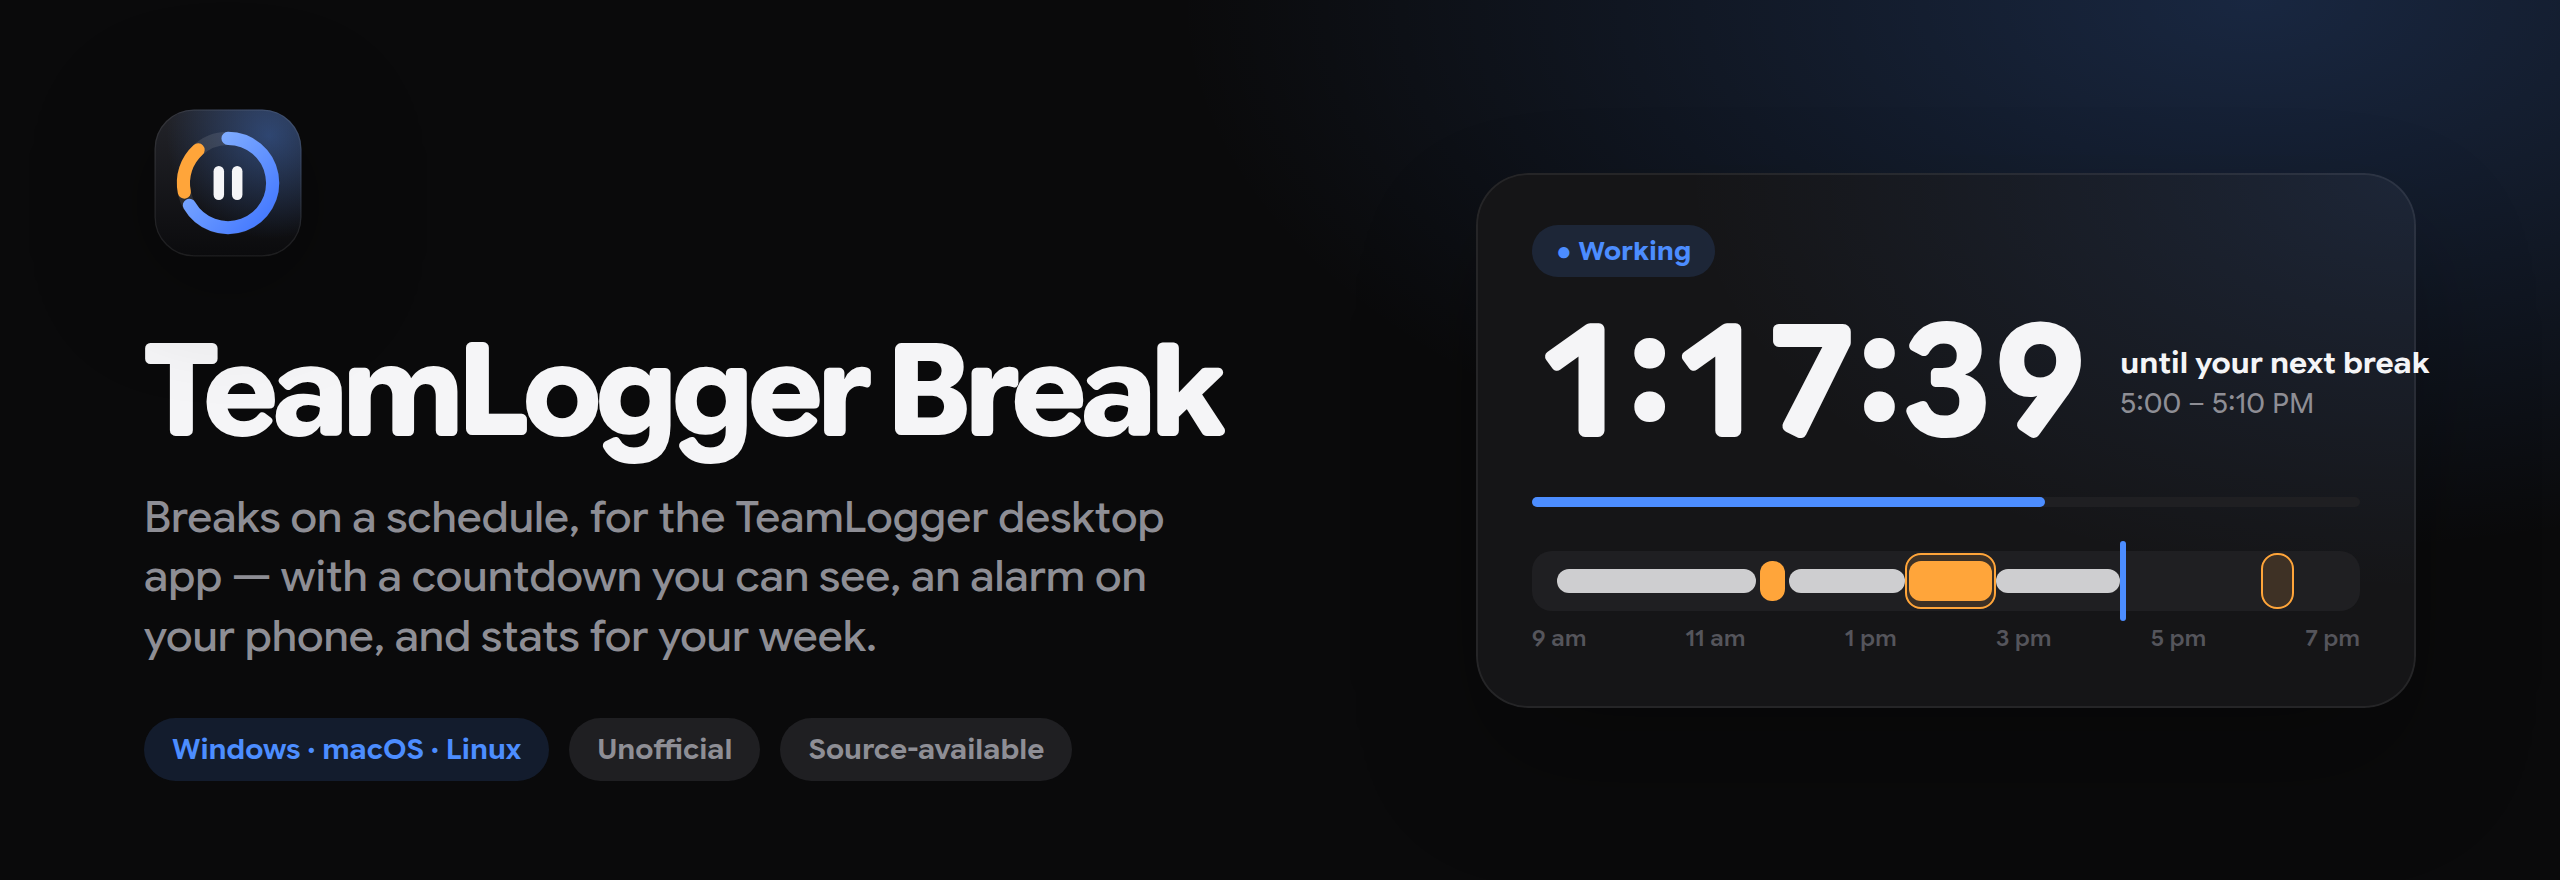
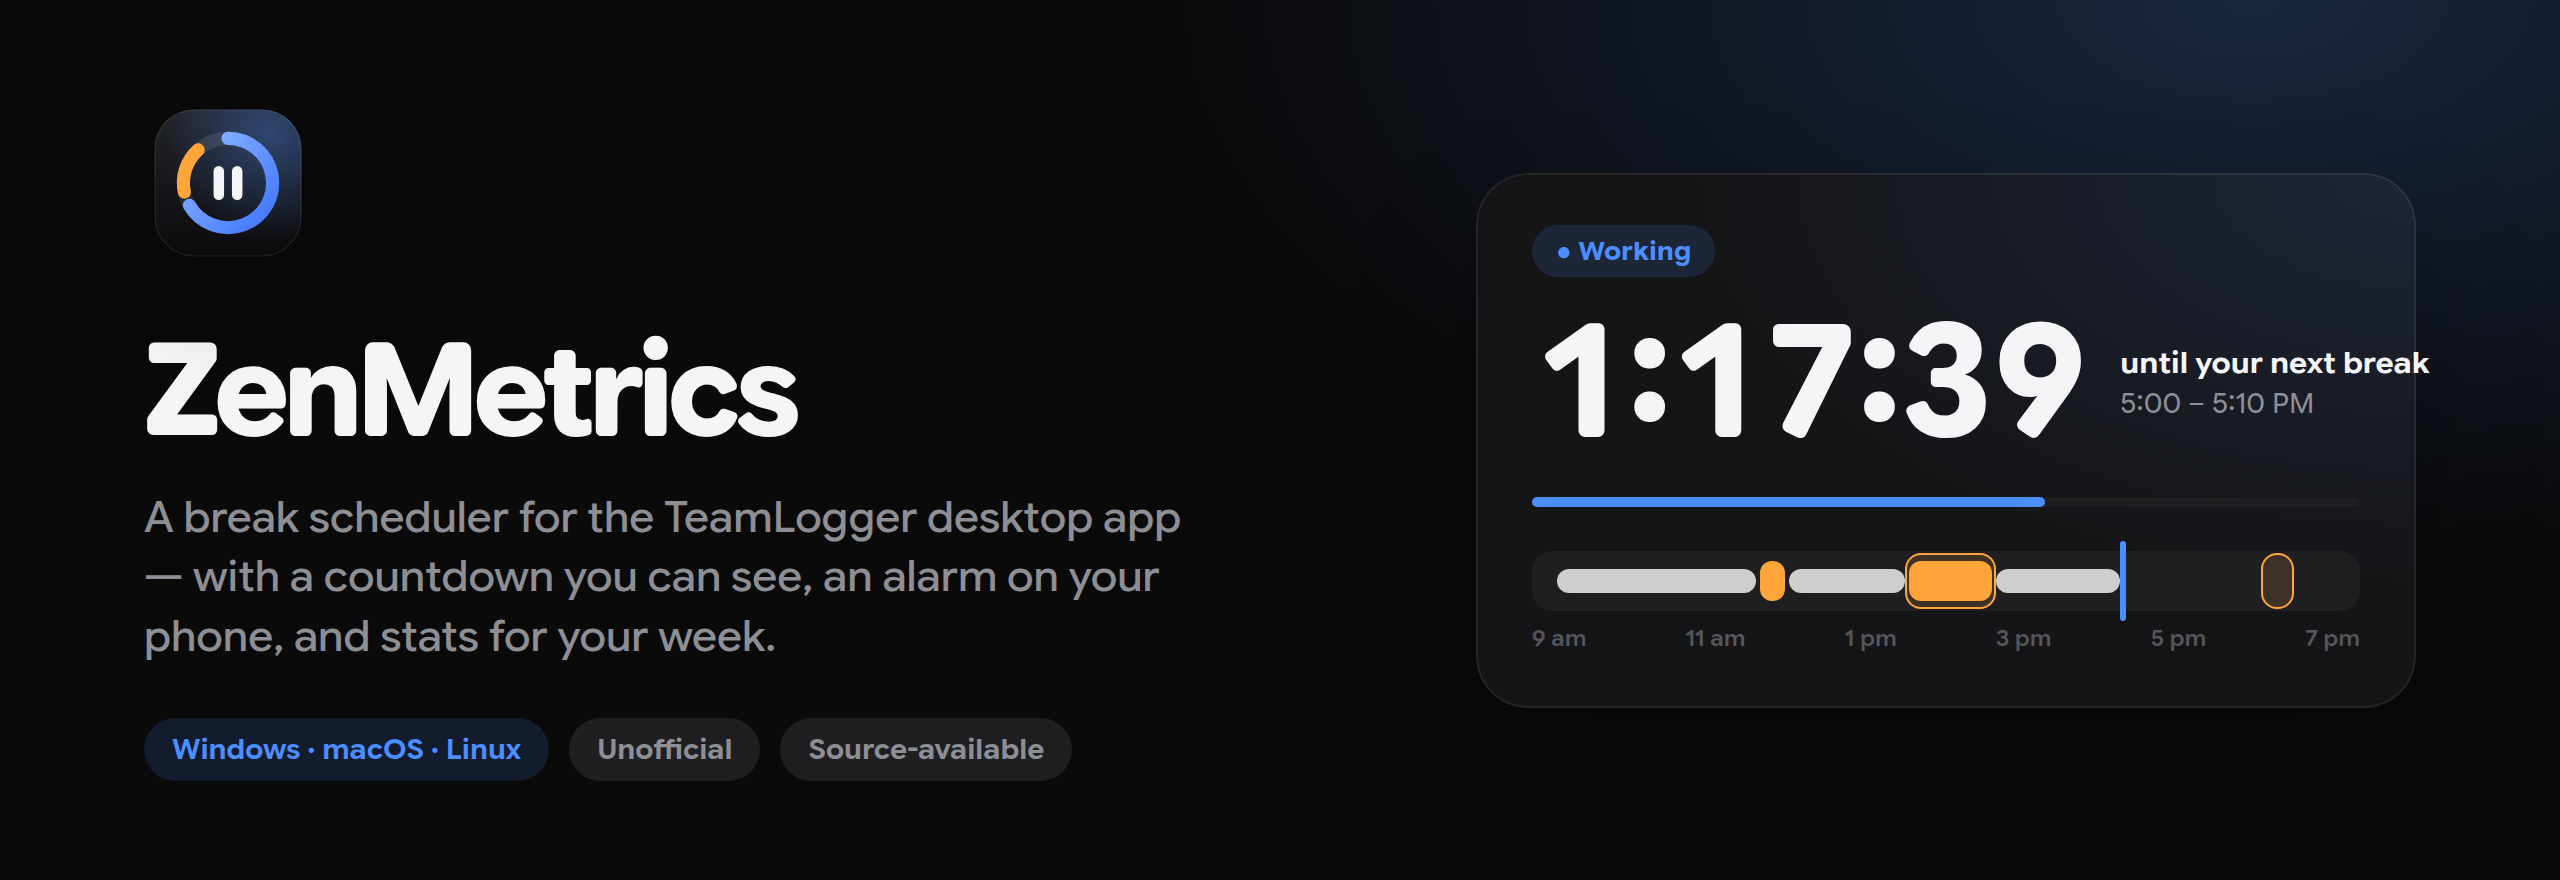
Rename to ZenMetrics (v0.2.0)
The app is now ZenMetrics, a break scheduler for TeamLogger, so the product
name no longer uses TeamLogger's trademark. Settings and history are copied
from the old teamlogger-break folders on first start. Docs, banner and setup
screenshot updated; README gains a Use responsibly section.

diff --git a/app/src/setup.ts b/app/src/setup.ts
@@ -51,7 +51,7 @@ export function runSetup(root: HTMLElement): Promise<void> {
         next: "Get started",
         render: () => [
           h("img", { class: "setup-logo", src: logoUrl, alt: "", width: 72, height: 72 }),
-          h("h1", { class: "setup-title" }, "Welcome to TeamLogger Break"),
+          h("h1", { class: "setup-title" }, "Welcome to ZenMetrics"),
           h("p", { class: "sub setup-lead" }, "Breaks on a schedule, for the TeamLogger desktop app."),
           h("div", { class: "points" },
             point("coffee", "Real breaks in TeamLogger", "At the times you choose it presses TeamLogger's Take a break, and Resume when the break ends — so they're recorded as breaks."),
@@ -113,7 +113,7 @@ export function runSetup(root: HTMLElement): Promise<void> {
               point("lock", "Only this computer can reach it", `The port listens on this computer only (127.0.0.1). Nothing on your network or the internet can use it.`),
               point("check", "Breaks are normal breaks", "TeamLogger records them exactly as if you had clicked the buttons yourself.")),
             h("label", { class: "consent", for: "consent" }, consent,
-              h("span", {}, "I agree that TeamLogger Break may restart TeamLogger with a local control port and press its break buttons.")),
+              h("span", {}, "I agree that ZenMetrics may restart TeamLogger with a local control port and press its break buttons.")),
             live,
             h("p", { class: "tiny" }, "Your choice is saved. You can connect later and change it any time in Settings."),
           ];
@@ -127,7 +127,7 @@ export function runSetup(root: HTMLElement): Promise<void> {
           const draw = (p: Permission) => clear(box,
             statusRow(p === "granted" ? true : p === "denied" ? false : null,
               p === "granted" ? "Notifications are on" : p === "denied" ? "Notifications are blocked" : "Notifications aren't on yet",
-              p === "denied" ? "Turn them on for TeamLogger Break in your system's notification settings"
+              p === "denied" ? "Turn them on for ZenMetrics in your system's notification settings"
                 : "A heads-up 2 minutes before each break, and when it ends",
               p === "granted"
                 ? h("button", { class: "btn soft", on: { click: () => { sendNotification("Break in 2 minutes", "1:00 – 1:40 PM · this is a test"); toast("Test notification sent"); } } }, "Send test")
@@ -210,7 +210,7 @@ export function runSetup(root: HTMLElement): Promise<void> {
       },
       {
         title: "Finish",
-        next: "Start using TeamLogger Break",
+        next: "Start using ZenMetrics",
         render: () => {
           const login = switchEl(app.cfg.login, "Start at login", async (on) => {
             try {
@@ -244,7 +244,7 @@ export function runSetup(root: HTMLElement): Promise<void> {
     const skip = h("button", { class: "btn quiet", on: { click: () => go(1) } }, "Skip");
     const next = h("button", { class: "btn primary", on: { click: () => go(1) } });
     const counter = h("span", { class: "tiny" });
-    const card = h("div", { class: "setup-card", role: "dialog", "aria-modal": "true", "aria-label": "Set up TeamLogger Break" },
+    const card = h("div", { class: "setup-card", role: "dialog", "aria-modal": "true", "aria-label": "Set up ZenMetrics" },
       h("div", { class: "row" }, dots, h("span", { class: "spacer" }), counter),
       body,
       h("div", { class: "setup-nav" }, back, h("span", { class: "spacer" }), skip, next));

diff --git a/app/src/dialogs.ts b/app/src/dialogs.ts
@@ -219,7 +219,7 @@ export function openSettings(initial = "schedule") {
           h("div", { class: "prow" }, h("div", { class: "text" }, h("span", { class: "body-strong" }, "TeamLogger app"), location), browse),
           h("div", { class: "prow" }, h("div", { class: "text" }, h("span", { class: "body-strong" }, "Connection"), connection),
             h("button", { class: "btn soft", style: "min-height:34px", on: { click: () => app.connect() } }, "Connect")),
-          prow("Start at login", "Opens TeamLogger Break when you log in", login),
+          prow("Start at login", "Opens ZenMetrics when you log in", login),
           prow("Test mode", "Log what would happen without clicking TeamLogger", switchEl(c.dry_run, "Test mode", (on) => app.update({ dry_run: on }))),
           prow("Activity log", null, null, showLog),
           prow("Run setup again", "Welcome, TeamLogger, permissions, breaks, phone", null, () => { s.close(); app.openSetup(); })),

diff --git a/app/src/styles.css b/app/src/styles.css
@@ -1,4 +1,4 @@
-/* TeamLogger Break — design system (port of teamlogger_ui.py)
+/* ZenMetrics — design system (port of teamlogger_ui.py)
    Calm, typographic. True black (light: soft grey), soft cards, heavy rounded
    numerals, grey labels. Colour carries meaning only: blue = working / today,
    amber = breaks, green/red = change. One primary button.

diff --git a/app/index.html b/app/index.html
@@ -3,7 +3,7 @@
   <head>
     <meta charset="UTF-8" />
     <meta name="viewport" content="width=device-width, initial-scale=1.0" />
-    <title>TeamLogger Break</title>
+    <title>ZenMetrics</title>
     <link rel="stylesheet" href="/src/styles.css" />
   </head>
   <body>

diff --git a/app/src-tauri/src/store.rs b/app/src-tauri/src/store.rs
@@ -5,9 +5,11 @@
 //! `login`, `theme` and `phone`. Keys this version doesn't know are kept as-is.
 //!
 //! Locations (`dirs` crate):
-//!   Linux    ~/.config/teamlogger-break/config.json, ~/.local/share/teamlogger-break/   (same as the Python app)
-//!   macOS    ~/Library/Application Support/teamlogger-break/
-//!   Windows  %APPDATA%\teamlogger-break\
+//!   Linux    ~/.config/zenmetrics/config.json, ~/.local/share/zenmetrics/
+//!   macOS    ~/Library/Application Support/zenmetrics/
+//!   Windows  %APPDATA%\zenmetrics\
+//! The first time, settings and history are copied from the folders of the old
+//! name (`teamlogger-break`, also used by the Python app); the old folders stay.
 //! `TLB_CONFIG_DIR` / `TLB_DATA_DIR` override them (used for demo data in development).
 
 use chrono::NaiveTime;
@@ -17,7 +19,9 @@ use std::fs;
 use std::io;
 use std::path::{Path, PathBuf};
 
-pub const APP_DIR: &str = "teamlogger-break";
+pub const APP_DIR: &str = "zenmetrics";
+/// The folder name before the app was renamed (v0.1.0, and the Python app).
+pub const LEGACY_APP_DIR: &str = "teamlogger-break";
 pub const DEFAULT_PORT: u16 = 9333;
 pub const DEFAULT_SERVER: &str = "https://ntfy.sh";
 
@@ -31,12 +35,43 @@ impl Paths {
     pub fn resolve() -> Self {
         let from_env = |key: &str| std::env::var_os(key).filter(|v| !v.is_empty()).map(PathBuf::from);
         let home = || dirs::home_dir().unwrap_or_else(|| PathBuf::from("."));
-        let config_dir = from_env("TLB_CONFIG_DIR")
-            .unwrap_or_else(|| dirs::config_dir().unwrap_or_else(home).join(APP_DIR));
-        let data_dir = from_env("TLB_DATA_DIR")
-            .unwrap_or_else(|| dirs::data_dir().unwrap_or_else(home).join(APP_DIR));
+        let config_dir = from_env("TLB_CONFIG_DIR").unwrap_or_else(|| {
+            let base = dirs::config_dir().unwrap_or_else(home);
+            adopt_legacy(&base.join(LEGACY_APP_DIR), &base.join(APP_DIR));
+            base.join(APP_DIR)
+        });
+        let data_dir = from_env("TLB_DATA_DIR").unwrap_or_else(|| {
+            let base = dirs::data_dir().unwrap_or_else(home);
+            adopt_legacy(&base.join(LEGACY_APP_DIR), &base.join(APP_DIR));
+            base.join(APP_DIR)
+        });
         Paths { config_file: config_dir.join("config.json"), data_dir }
     }
+}
+
+/// Copy `old` to `new` once, if only `old` exists. Copying (not moving) leaves
+/// the old folder for the Python app. On failure the app starts fresh instead.
+pub fn adopt_legacy(old: &Path, new: &Path) {
+    if new.exists() || !old.is_dir() {
+        return;
+    }
+    if copy_dir(old, new).is_err() {
+        let _ = fs::remove_dir_all(new);
+    }
+}
+
+fn copy_dir(from: &Path, to: &Path) -> io::Result<()> {
+    fs::create_dir_all(to)?;
+    for entry in fs::read_dir(from)? {
+        let entry = entry?;
+        let target = to.join(entry.file_name());
+        if entry.file_type()?.is_dir() {
+            copy_dir(&entry.path(), &target)?;
+        } else {
+            fs::copy(entry.path(), target)?;
+        }
+    }
+    Ok(())
 }
 
 #[derive(Debug, Clone, PartialEq, Eq, Serialize, Deserialize)]
@@ -293,6 +328,24 @@ mod tests {
 
     fn t(s: &str) -> NaiveTime {
         parse_hm(s).unwrap()
+    }
+
+    #[test]
+    fn adopts_the_old_folder_once() {
+        let dir = tempfile::tempdir().unwrap();
+        let (old, new) = (dir.path().join("teamlogger-break"), dir.path().join("zenmetrics"));
+        fs::create_dir_all(old.join("tray-icons")).unwrap();
+        fs::write(old.join("config.json"), "{}").unwrap();
+        fs::write(old.join("tray-icons/a.png"), "x").unwrap();
+        adopt_legacy(&old, &new);
+        assert_eq!(fs::read_to_string(new.join("config.json")).unwrap(), "{}");
+        assert!(new.join("tray-icons/a.png").exists());
+        assert!(old.join("config.json").exists(), "old folder is left for the Python app");
+        // never overwrites the new folder once it exists
+        fs::write(new.join("config.json"), "{\"new\":1}").unwrap();
+        fs::write(old.join("config.json"), "{\"old\":1}").unwrap();
+        adopt_legacy(&old, &new);
+        assert_eq!(fs::read_to_string(new.join("config.json")).unwrap(), "{\"new\":1}");
     }
 
     #[test]

diff --git a/teamlogger_break_gui.py b/teamlogger_break_gui.py
@@ -1,6 +1,6 @@
 #!/usr/bin/env python3
 """
-TeamLogger Break Scheduler — GNOME app (GTK 4 + libadwaita).
+ZenMetrics — GNOME app (GTK 4 + libadwaita).
 
 Pick break windows (e.g. 1:00 PM – 1:40 PM) and days, and the app:
   * shows a live countdown to the next break (and in the top bar),
@@ -52,7 +52,7 @@ APP_ICON = next((p for p in (os.path.join(HERE, "data", "teamlogger-break.svg"),
                 os.path.join(HERE, "data", "teamlogger-break.svg"))
 DESKTOP_ENTRY = """[Desktop Entry]
 Type=Application
-Name=TeamLogger Break
+Name=ZenMetrics
 Comment=Take and resume TeamLogger breaks on a schedule
 Exec=/usr/bin/python3 "{script}"{args}
 Icon={icon}
@@ -136,7 +136,7 @@ def parse_hm(s):
 
 def notify(title, body):
     try:
-        subprocess.Popen(["notify-send", "-a", "TeamLogger Break", title, body],
+        subprocess.Popen(["notify-send", "-a", "ZenMetrics", title, body],
                          stdout=subprocess.DEVNULL, stderr=subprocess.DEVNULL)
     except OSError:
         pass
@@ -264,7 +264,7 @@ def build_app_classes():
             self.win.set_visible(False)
             if not self.hide_hint_shown:
                 self.hide_hint_shown = True
-                notify("TeamLogger Break is still running",
+                notify("ZenMetrics is still running",
                        "It keeps working in the background. Open it from the top-bar icon or the app menu.")
 
         def quit_app(self):
@@ -510,7 +510,7 @@ def build_app_classes():
                     else:
                         GLib.idle_add(self.log, "TeamLogger not connected after login.")
                         notify("TeamLogger isn't connected",
-                               "Open TeamLogger Break and press Connect so breaks can be clicked.")
+                               "Open ZenMetrics and press Connect so breaks can be clicked.")
             threading.Thread(target=work, daemon=True).start()
 
         def set_connected(self, ok):
@@ -564,7 +564,7 @@ def build_app_classes():
                     else:
                         reason = res and res.get("reason")
                         self.log(f"FAILED: {reason}")
-                        notify("TeamLogger Break", f"Couldn't click the button: {reason}")
+                        notify("ZenMetrics", f"Couldn't click the button: {reason}")
                         self.win.toast("Couldn't click TeamLogger — see Activity Log")
                     if on_done:
                         on_done(ok)
@@ -749,7 +749,7 @@ def build_app_classes():
 
 
 def main():
-    p = argparse.ArgumentParser(description="TeamLogger Break Scheduler")
+    p = argparse.ArgumentParser(description="ZenMetrics")
     p.add_argument("--hidden", action="store_true", help="start in the background (no window)")
     p.add_argument("--quit", action="store_true", help="stop the running instance")
     args = p.parse_args()
@@ -766,7 +766,7 @@ def main():
                          env={**os.environ, "TLB_FOREGROUND": "1"},
                          stdin=subprocess.DEVNULL, stdout=subprocess.DEVNULL, stderr=subprocess.DEVNULL,
                          start_new_session=True)
-        print("TeamLogger Break is running in the background. You can close this terminal.")
+        print("ZenMetrics is running in the background. You can close this terminal.")
         return
     tui.register_fonts_early()   # before GTK loads, so Google Sans Flex is the default face
     BreakApp = build_app_classes()

diff --git a/app/src-tauri/src/tray.rs b/app/src-tauri/src/tray.rs
@@ -97,10 +97,10 @@ pub fn setup(app: &AppHandle) -> tauri::Result<()> {
     let state = app.state::<AppState>();
     let running = state.sched.lock().unwrap().running;
     let status_item = MenuItem::with_id(app, "status", "Starting…", false, None::<&str>)?;
-    let open = MenuItem::with_id(app, "open", "Open TeamLogger Break", true, None::<&str>)?;
+    let open = MenuItem::with_id(app, "open", "Open ZenMetrics", true, None::<&str>)?;
     let auto = CheckMenuItem::with_id(app, "auto", "Automatic breaks", true, running, None::<&str>)?;
     let skip = MenuItem::with_id(app, "skip", "Skip today's remaining breaks", true, None::<&str>)?;
-    let quit = MenuItem::with_id(app, "quit", "Quit TeamLogger Break", true, None::<&str>)?;
+    let quit = MenuItem::with_id(app, "quit", "Quit ZenMetrics", true, None::<&str>)?;
     let menu = Menu::with_items(
         app,
         &[&status_item, &PredefinedMenuItem::separator(app)?, &open, &auto, &skip, &PredefinedMenuItem::separator(app)?, &quit],
@@ -109,7 +109,7 @@ pub fn setup(app: &AppHandle) -> tauri::Result<()> {
     let tray = TrayIconBuilder::with_id("main")
         .icon(Image::new_owned(ring(0.0, "off", template, false), SIZE, SIZE))
         .icon_as_template(template)
-        .tooltip("TeamLogger Break")
+        .tooltip("ZenMetrics")
         .menu(&menu)
         .show_menu_on_left_click(true)
         .on_menu_event(|app, ev| {

diff --git a/teamlogger_break_tray.py b/teamlogger_break_tray.py
@@ -1,6 +1,6 @@
 #!/usr/bin/env python3
 """
-Top-bar (tray) icon for the TeamLogger Break Scheduler.
+Top-bar (tray) icon for ZenMetrics.
 
 Started automatically by teamlogger_break_gui.py. Talks to it over a local
 Unix socket: shows the current status, opens the window, or quits the app.
@@ -91,7 +91,7 @@ class Tray:
         self.ind = AppIndicator.Indicator.new_with_path(
             "teamlogger-break", first, AppIndicator.IndicatorCategory.APPLICATION_STATUS, ICON_DIR)
         self.ind.set_status(AppIndicator.IndicatorStatus.ACTIVE)
-        self.ind.set_title("TeamLogger Break")
+        self.ind.set_title("ZenMetrics")
 
         menu = Gtk.Menu()
         self.status_item = Gtk.MenuItem(label="Starting…")
@@ -173,7 +173,7 @@ class Tray:
     def set_icon(self, name):
         if name != getattr(self, "_last_icon", None):
             self._last_icon = name
-            self.ind.set_icon_full(name, "TeamLogger Break")
+            self.ind.set_icon_full(name, "ZenMetrics")
 
     def sweep(self, frac, mode):
         """Spin the ring from empty to its current position (~0.6 s)."""

diff --git a/app/src-tauri/src/lib.rs b/app/src-tauri/src/lib.rs
@@ -1,4 +1,4 @@
-//! TeamLogger Break — cross-platform core (Tauri v2).
+//! ZenMetrics — cross-platform core (Tauri v2).
 //!
 //! Milestones 1–2 and the first-run setup (6) of docs/CROSS_PLATFORM_PLAN.md:
 //! the app shell, settings store, activity timeline, statistics and setup. TeamLogger control (DevTools),
@@ -129,7 +129,7 @@ pub fn run() {
             commands::phone_qr,
         ])
         .build(tauri::generate_context!())
-        .expect("error while starting TeamLogger Break")
+        .expect("error while starting ZenMetrics")
         .run(|_app, _event| {
             // macOS: clicking the Dock icon brings the hidden window back
             #[cfg(target_os = "macos")]
@@ -189,7 +189,7 @@ fn hint_still_running(app: &tauri::AppHandle) {
     let _ = app
         .notification()
         .builder()
-        .title("TeamLogger Break is still running")
+        .title("ZenMetrics is still running")
         .body(format!("Your breaks keep running. Open it again from the {place}."))
         .show();
 }

diff --git a/app/src-tauri/src/phone.rs b/app/src-tauri/src/phone.rs
@@ -25,7 +25,7 @@ use std::time::Duration;
 use crate::schedule::ts;
 use crate::store::{fmt12, Phone as PhoneCfg};
 
-const UA: &str = concat!("teamlogger-break/", env!("CARGO_PKG_VERSION"));
+const UA: &str = concat!("zenmetrics/", env!("CARGO_PKG_VERSION"));
 /// ntfy needs at least 10 s for scheduled delivery.
 const MIN_DELAY: f64 = 12.0;
 
@@ -244,7 +244,7 @@ impl Phone {
         }
         let mut pc = pc.clone();
         pc.enabled = true; // a test is explicit
-        self.publish(&pc, &format!("test{}", chrono::Local::now().timestamp()), "TeamLogger Break is connected",
+        self.publish(&pc, &format!("test{}", chrono::Local::now().timestamp()), "ZenMetrics is connected",
                      "Phone notifications work. You'll get a countdown and an alarm for each break.", 3,
                      &["white_check_mark"], vec![button(&pc, "Test a button", "ping", true)], None);
         Ok(())

diff --git a/teamlogger_phone.py b/teamlogger_phone.py
@@ -1,5 +1,5 @@
 """
-Phone notifications for the TeamLogger Break Scheduler, via ntfy (https://ntfy.sh).
+Phone notifications for ZenMetrics, via ntfy (https://ntfy.sh).
 
 Install the free "ntfy" app on your phone and subscribe to your topic (shown in
 the app's Phone settings). Then, for every break:
@@ -271,7 +271,7 @@ class Phone:
             self.delete(seq)
 
     def send_test(self):
-        self.publish(f"test{int(time.time())}", "TeamLogger Break is connected",
+        self.publish(f"test{int(time.time())}", "ZenMetrics is connected",
                      "Phone notifications work. You'll get a countdown and an alarm for each break.",
                      priority=3, tags=["white_check_mark"],
                      actions=[self._button("Test a button", "ping")])

diff --git a/teamlogger_ui.py b/teamlogger_ui.py
@@ -1,5 +1,5 @@
 """
-Interface for TeamLogger Break (GTK 4 + libadwaita).
+Interface for ZenMetrics (GTK 4 + libadwaita).
 
 Layout — a desktop "bento" dashboard that fits without scrolling (~920×700):
 
@@ -1027,7 +1027,7 @@ def build_ui_classes(Adw, Gdk, Gio, GLib, Graphene, Gsk, Gtk, Pango, h):
     # ------------------------------------------------------------ main window
     class MainWindow(Adw.ApplicationWindow):
         def __init__(self, app):
-            super().__init__(application=app, title="TeamLogger Break", css_classes=["tlb"])
+            super().__init__(application=app, title="ZenMetrics", css_classes=["tlb"])
             self.app = app
             self.settings_dlg = None
             self.set_default_size(960, 740)
